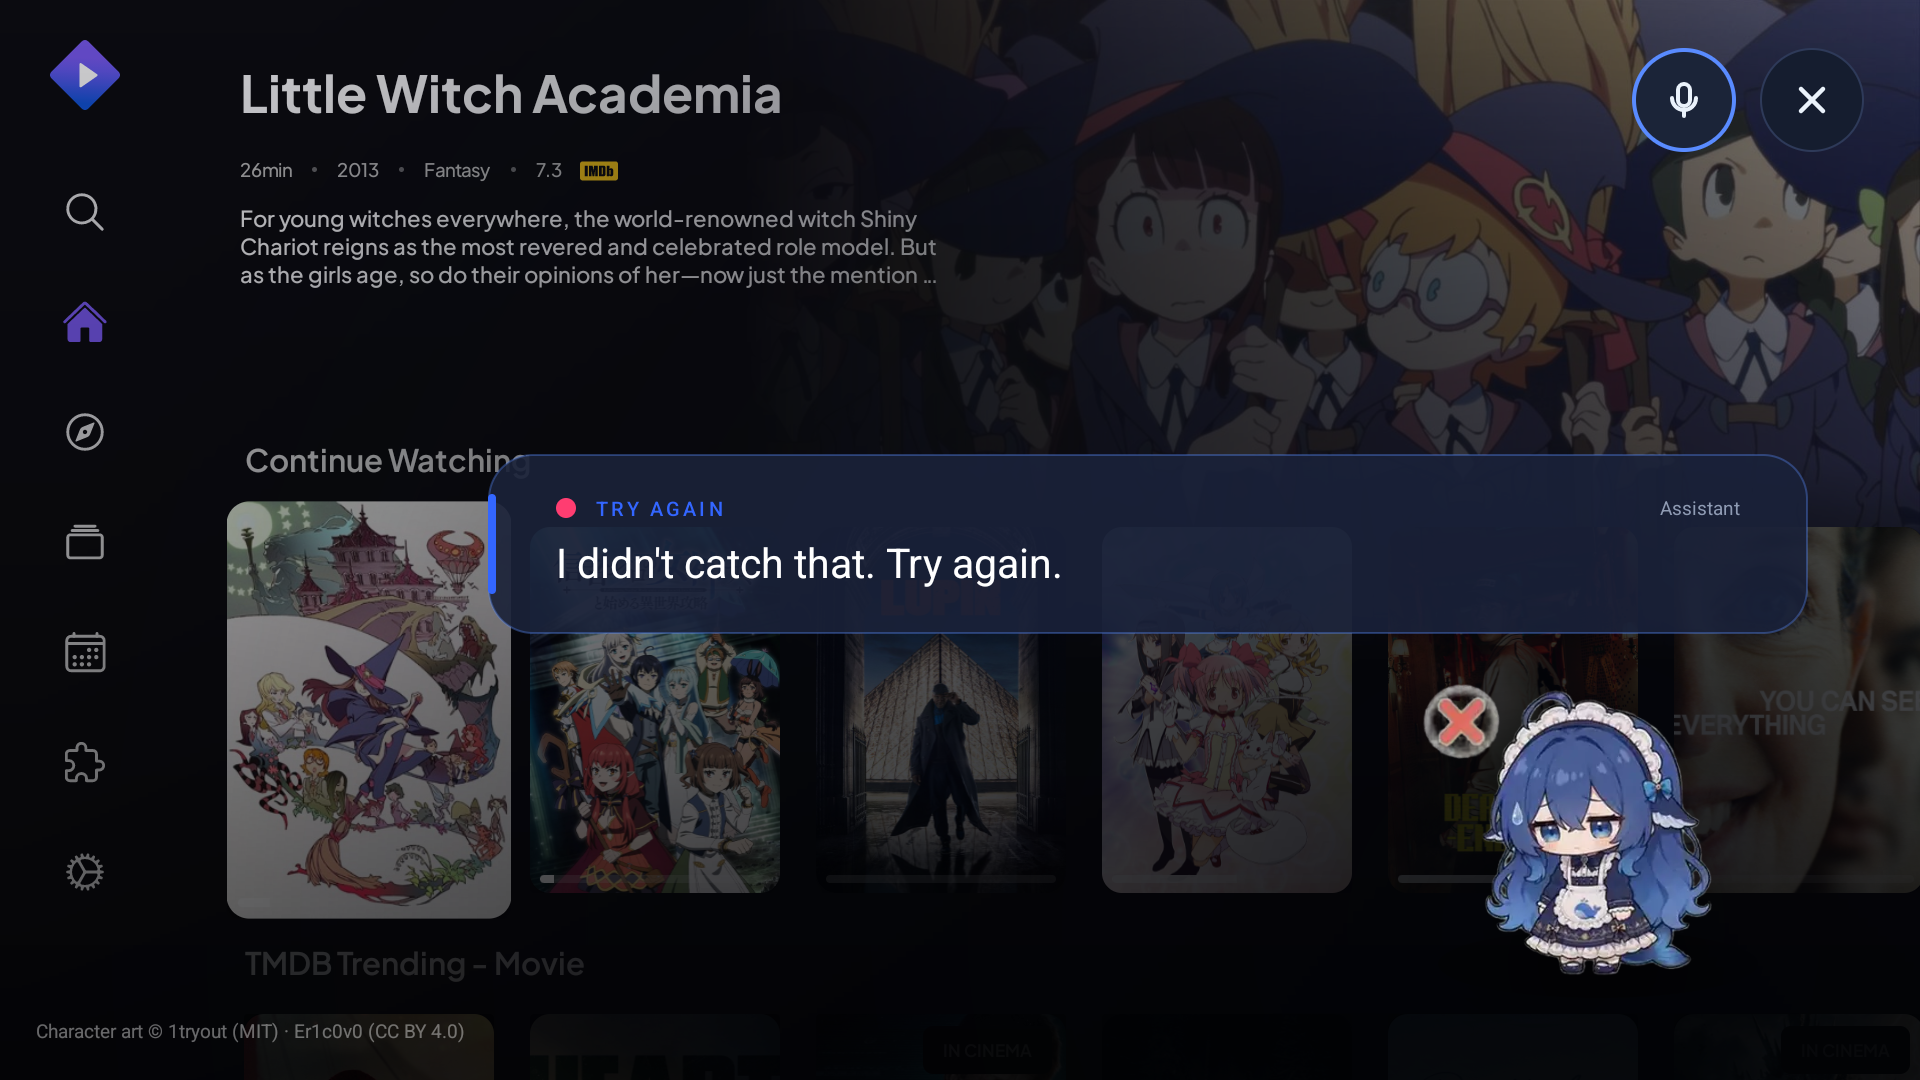
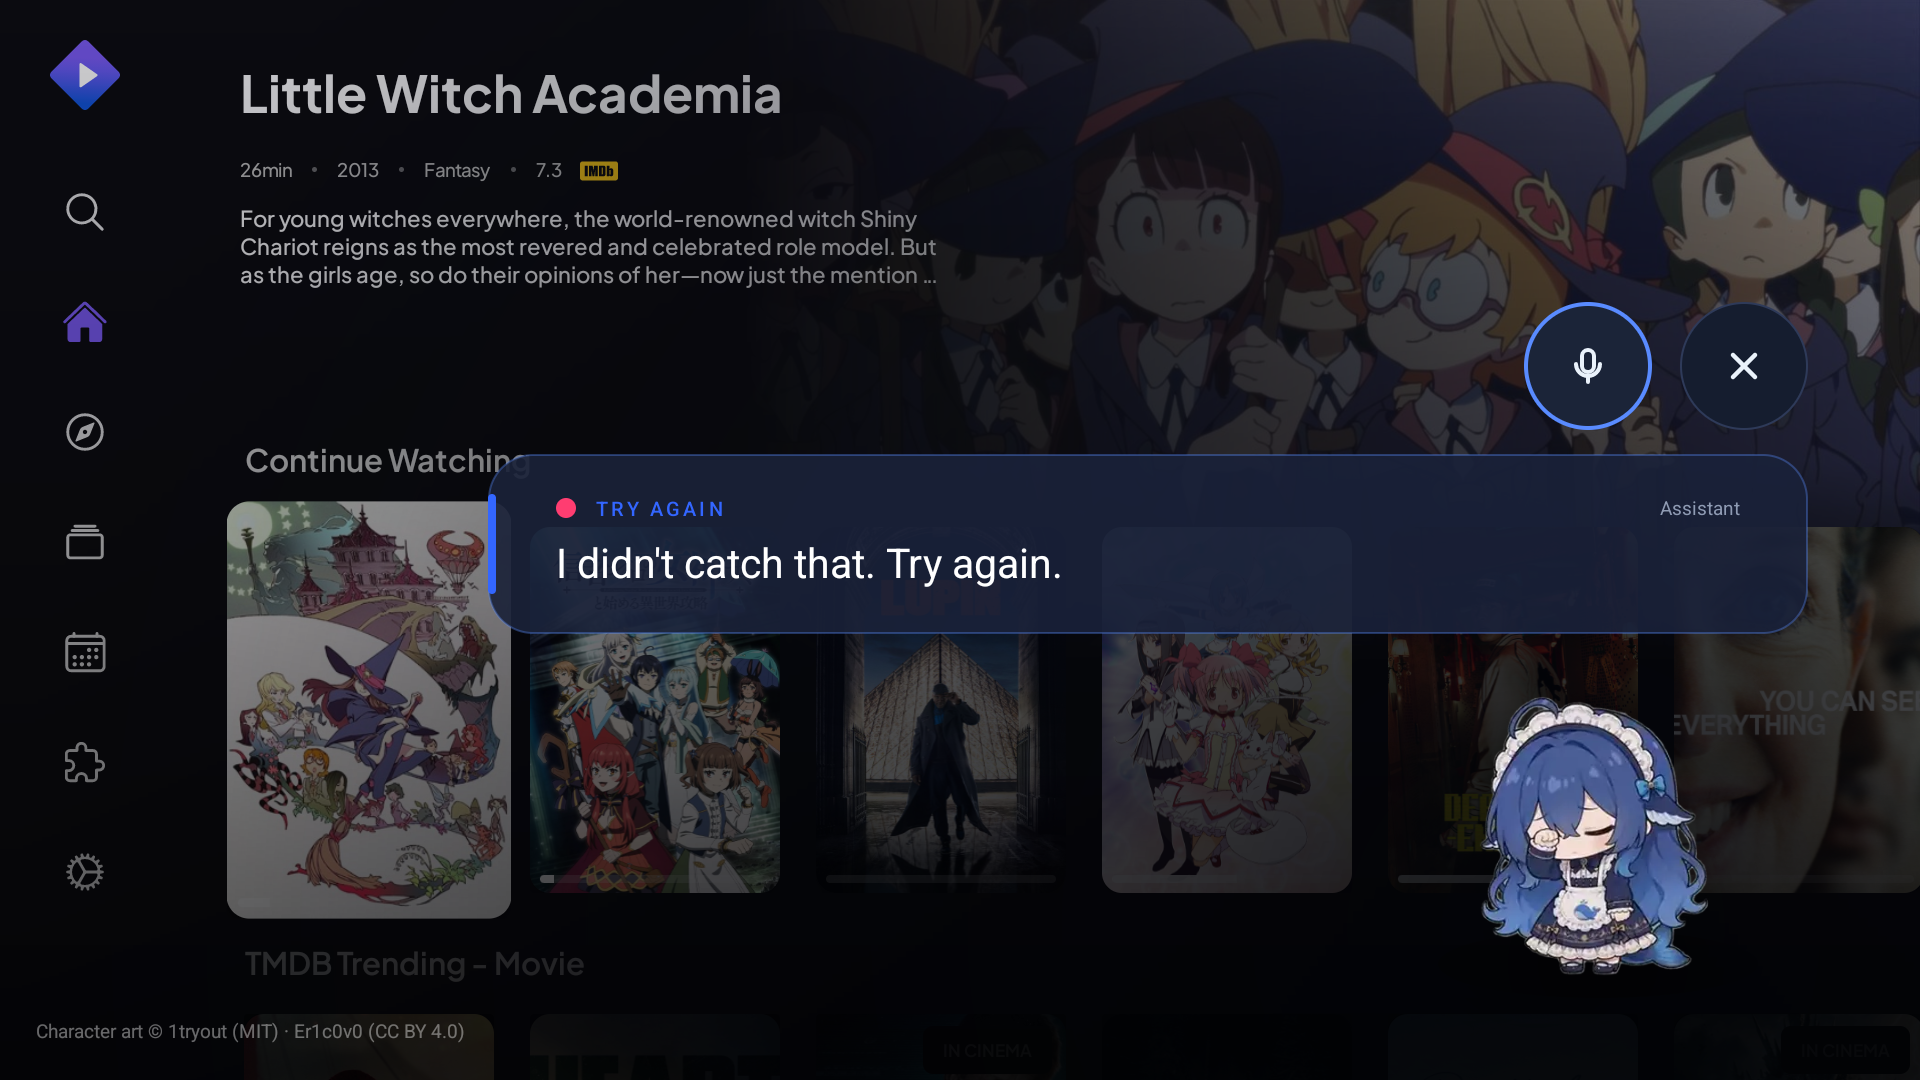
overlay: send button inside composer; persist until close or re-send

Changed region(s): [[0.7188, 0.6111, 0.9062, 0.9167], [0.7812, 0.275, 0.9375, 0.3972], [0.8438, 0.0306, 0.9062, 0.1528]]

diff --git a/android/tv-assistant/src/com/jp/dshtv/WhaleUi.java b/android/tv-assistant/src/com/jp/dshtv/WhaleUi.java
@@ -30,6 +30,7 @@ public final class WhaleUi {
     private final TextView text;
     private final View closeBtn;
     private final View againBtn;
+    private final View sendBtn;
     private final Runnable onFinished;
     private final Handler main = new Handler(Looper.getMainLooper());
     private final MicCapture mic = new MicCapture();
@@ -49,6 +50,19 @@ public final class WhaleUi {
         this.eyebrow = (TextView) root.findViewById(R.id.whale_eyebrow);
         this.you = (TextView) root.findViewById(R.id.whale_you);
         this.text = (TextView) root.findViewById(R.id.whale_text);
+        this.sendBtn = root.findViewById(R.id.whale_send);
+        if (sendBtn != null) {
+            sendBtn.setOnClickListener(new View.OnClickListener() {
+                @Override
+                public void onClick(View v) {
+                    if (listening) {
+                        commit();
+                    } else {
+                        askAgain();
+                    }
+                }
+            });
+        }
         this.againBtn = root.findViewById(R.id.whale_again);
         if (againBtn != null) {
             againBtn.setOnClickListener(new View.OnClickListener() {
@@ -94,8 +108,11 @@ public final class WhaleUi {
     public void listen() {
         Log.i("WhaleUi", "listen()");
         cancelClose();
+        if (sendBtn != null) {
+            sendBtn.setVisibility(View.VISIBLE);
+        }
         if (againBtn != null) {
-            againBtn.setContentDescription("Send");
+            againBtn.setContentDescription("Ask another question");
         }
         if (closeBtn != null) {
             closeBtn.setContentDescription("Close");
@@ -220,7 +237,6 @@ public final class WhaleUi {
                 transcript.length() > 0 ? "“" + transcript + "”" : "", reply);
         speak(reply);
         showCloseButton();
-        scheduleClose(12000);
     }
 
     private void fail(String message) {
@@ -229,12 +245,14 @@ public final class WhaleUi {
         pet.play(R.raw.whale_wilt);
         setBubble("TRY AGAIN", DOT_ERROR, "", message);
         showCloseButton();
-        scheduleClose(7000);
     }
 
     /** After a reply or error the overlay offers a focusable close (X) button. */
     private void showCloseButton() {
         try {
+            if (sendBtn != null) {
+                sendBtn.setVisibility(View.GONE);
+            }
             if (againBtn != null) {
                 againBtn.setContentDescription("Ask another question");
                 againBtn.requestFocus();
